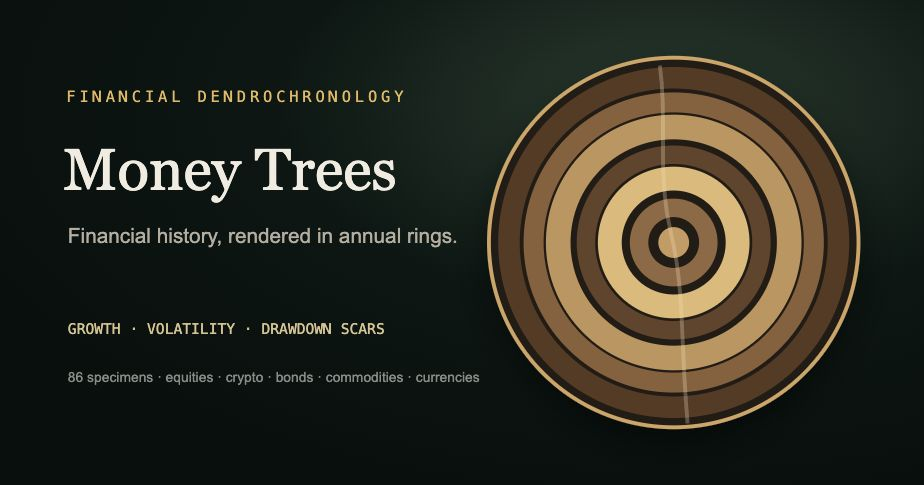
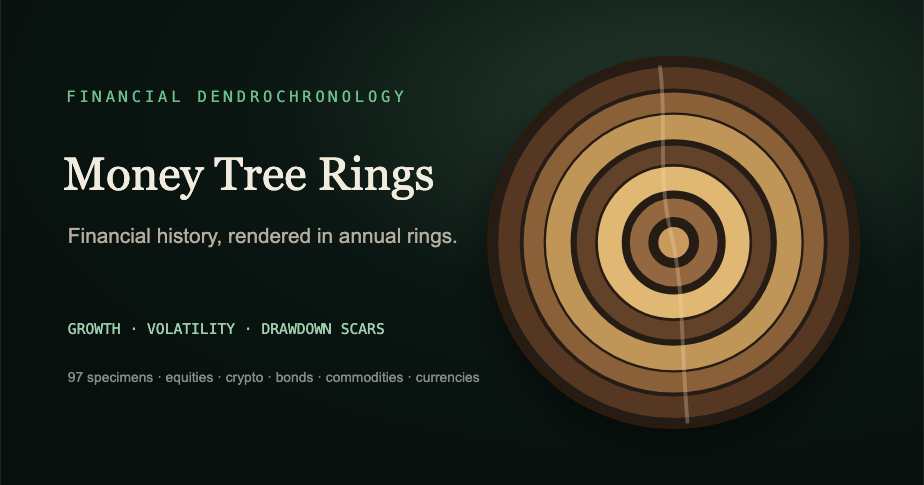
brand: Money Tree Rings at moneytreerings.com; four families
Domain and name. moneytrees.fun belongs to an unrelated crypto token
project; moneytreerings.com was registered 2026-09-18. The site, poster,
social card, manifest, methodology and README now say Money Tree Rings;
build.sh's SITE_URL default moves with it. The OG card is re-rendered
from its SVG (title resized to clear the disc, green accent, 97 specimens).
The repo, package and bot names stay.

Families. Young canopy and Mixed stand are gone from the taxonomy: young
was seven crypto trees plus COIN, all with an open scar, so they fall into
Scarred survivors on their own; Mixed stand held only META. Scarred now
qualifies at two wounds (was three) or an unrecovered scar, which gives
META a home and leaves no tree without a family. 'mixed' remains as an
internal fallback label with no button.

diff --git a/app/specimen.js b/app/specimen.js
@@ -13,7 +13,7 @@ function posterText(g,text,x,y,size,color='#eee9dd',font='ui-sans-serif,system-u
 function drawPoster(){const W=2400,H=3000,out=document.createElement('canvas');out.width=W;out.height=H;const g=out.getContext('2d'),m=LivingTrees.metrics(tree),family=TreeInsights.familyOf(insights,tree),p=LivingTrees.PALETTES[palette];
   const bg=g.createLinearGradient(0,0,0,H);bg.addColorStop(0,'#101a14');bg.addColorStop(.58,'#07100d');bg.addColorStop(1,'#13120c');g.fillStyle=bg;g.fillRect(0,0,W,H);
   const glow=g.createRadialGradient(W*.5,1080,80,W*.5,1080,1080);glow.addColorStop(0,'rgba(92,104,68,.22)');glow.addColorStop(1,'rgba(7,16,13,0)');g.fillStyle=glow;g.fillRect(0,300,W,1900);
-  posterText(g,'MONEY TREES',150,145,28,'#6fbf8a','ui-monospace,Menlo,monospace',600);posterText(g,`${tree.name} · ${tree.first_year}–${tree.last_year}`,150,260,86,'#f0e9da','Georgia,serif',500);posterText(g,`${tree.id.toUpperCase()} · ${LivingTrees.CLASS_NAMES[tree.cls]} · ${TreeInsights.FAMILY_LABELS[family]} · ${m.years} annual rings`,150,330,30,'#a9a294','ui-sans-serif,system-ui,sans-serif',400);
+  posterText(g,'MONEY TREE RINGS',150,145,28,'#6fbf8a','ui-monospace,Menlo,monospace',600);posterText(g,`${tree.name} · ${tree.first_year}–${tree.last_year}`,150,260,86,'#f0e9da','Georgia,serif',500);posterText(g,`${tree.id.toUpperCase()} · ${LivingTrees.CLASS_NAMES[tree.cls]} · ${TreeInsights.FAMILY_LABELS[family]} · ${m.years} annual rings`,150,330,30,'#a9a294','ui-sans-serif,system-ui,sans-serif',400);
   LivingTrees.drawDetailedRings(g,tree,W/2,1290,860,9999,{palette,years:yearLabels,fibers:true});
   g.fillStyle='rgba(20,27,22,.92)';g.fillRect(150,2225,2100,225);g.strokeStyle='rgba(228,218,190,.18)';g.lineWidth=2;g.strokeRect(150,2225,2100,225);
   const stats=[['ACCUMULATED GROWTH',grow(m)],['ANNUALIZED GROWTH',signed(m.cagr)],['MEAN VOLATILITY',pct(m.meanVol)],['WORST DRAWDOWN',pct(m.worst)]];stats.forEach((s,i)=>{const x=205+i*520;posterText(g,s[0],x,2295,21,'#8f897d','ui-monospace,Menlo,monospace',500);posterText(g,s[1],x,2390,54,i===0?'#6fbf8a':'#eee9dd','Georgia,serif',600)});
@@ -36,7 +36,7 @@ function stepYear(dir){const years=tree.rings.map(r=>r.year),current=selectedYea
 function paint(){if(!tree)return;cancelAnimationFrame(raf);raf=requestAnimationFrame(()=>{if(!tree)return;const available=Math.min(art.clientWidth,art.clientHeight||art.clientWidth),s=Math.max(240,Math.floor(available)),dpr=Math.min(devicePixelRatio||1,2);canvasSize=s;cv.style.width=s+'px';cv.style.height=s+'px';cv.width=Math.round(s*dpr);cv.height=Math.round(s*dpr);const g=cv.getContext('2d');g.setTransform(dpr,0,0,dpr,0,0);g.clearRect(0,0,s,s);geo=LivingTrees.drawDetailedRings(g,tree,s/2,s/2,s*.445,9999,{palette,years:yearLabels,fibers:true,highlightYear:activeYear()})})}
 function renderYearTable(){document.getElementById('year-table-wrap').innerHTML=`<table class="year-table"><thead><tr><th>year</th><th>return</th><th>vol</th><th>max DD</th></tr></thead><tbody>${tree.rings.slice().reverse().map(r=>`<tr data-year="${r.year}"><td><button type="button" class="year-button" data-year="${r.year}">${r.year}${r.partial?'*':''}</button></td><td>${r.ret>=0?'+':''}${pct(r.ret)}</td><td>${pct(r.vol)}</td><td>${pct(r.max_dd)}</td></tr>`).join('')}</tbody></table>`}
 function update(){const m=LivingTrees.metrics(tree,9999);if(!m)return;const family=TreeInsights.familyOf(insights,tree),from=encodeURIComponent(params.get('from')||'arboretum'),kinParams=arbParams();
-  document.title=tree.id.toUpperCase()+' Full Specimen — Money Trees';
+  document.title=tree.id.toUpperCase()+' Full Specimen — Money Tree Rings';
   document.getElementById('title').textContent=`${tree.name} carries ${m.years} visible annual rings`;
   document.getElementById('crumb-context').textContent=ctx.family!=='all'?` · ${TreeInsights.FAMILY_LABELS[ctx.family]}`:(ctx.cls!=='all'?` · ${LivingTrees.CLASS_NAMES[ctx.cls]}`:'');
   document.getElementById('name').textContent=tree.name;

diff --git a/app/tree-insights.js b/app/tree-insights.js
@@ -1,12 +1,12 @@
 (function(){
-  const FAMILY_ORDER=['quiet','storm','old','scarred','young','mixed'];
-  const FAMILY_LABELS={quiet:'Quiet compounders',storm:'Storm growers',old:'Old growth',scarred:'Scarred survivors',young:'Young canopy',mixed:'Mixed stand'};
-  const FAMILY_COPY={quiet:'Positive growers in the collection’s calmest volatility third.',storm:'Top-third growth paired with top-third volatility.',old:'Histories spanning at least twenty-five years.',scarred:'At least three qualifying wounds or an unrecovered scar.',young:'No more than seven visible annual bands.',mixed:'No single family trait dominates the visible record.'};
+  const FAMILY_ORDER=['quiet','storm','old','scarred'];
+  const FAMILY_LABELS={quiet:'Quiet compounders',storm:'Storm growers',old:'Old growth',scarred:'Scarred survivors',mixed:'Mixed stand'};
+  const FAMILY_COPY={quiet:'Positive growers in the collection’s calmest volatility third.',storm:'Top-third growth paired with top-third volatility.',old:'Histories spanning at least twenty-five years.',scarred:'At least two qualifying wounds or an unrecovered scar.',mixed:'No single family trait dominates the visible record.'};
   const quantile=(xs,q)=>{const a=xs.slice().sort((x,y)=>x-y),p=(a.length-1)*q,i=Math.floor(p),f=p-i;return a[i]+((a[i+1]??a[i])-a[i])*f};
   const metrics=t=>LivingTrees.metrics(t,9999);
   function features(t){const m=metrics(t);return{cagr:m.cagr,meanVol:m.meanVol,years:m.years,positive:m.positive,worst:Math.abs(m.worst),scarRate:m.scars.length/m.years}}
   function create(trees){const ctx={trees,volLo:quantile(trees.map(t=>t.mean_vol),.33),volHi:quantile(trees.map(t=>t.mean_vol),.67),growthHi:quantile(trees.map(t=>t.cagr),.67),z:{}};for(const key of Object.keys(features(trees[0]))){const xs=trees.map(t=>features(t)[key]),mean=xs.reduce((a,b)=>a+b,0)/xs.length,sd=Math.sqrt(xs.reduce((a,b)=>a+(b-mean)**2,0)/xs.length)||1;ctx.z[key]={mean,sd}}return ctx}
-  function familyOf(ctx,t){const m=metrics(t),open=(t.scars||[]).some(s=>s.r_year==null);if(m.meanVol<=ctx.volLo&&m.cagr>0)return'quiet';if(m.cagr>=ctx.growthHi&&m.meanVol>=ctx.volHi)return'storm';if(m.years<=7)return'young';if(t.age_years>=25)return'old';if(m.scars.length>=3||open)return'scarred';return'mixed'}
+  function familyOf(ctx,t){const m=metrics(t),open=(t.scars||[]).some(s=>s.r_year==null);if(m.meanVol<=ctx.volLo&&m.cagr>0)return'quiet';if(m.cagr>=ctx.growthHi&&m.meanVol>=ctx.volHi)return'storm';if(t.age_years>=25)return'old';if(m.scars.length>=2||open)return'scarred';return'mixed'}
   function notes(t){const m=metrics(t),best=m.rings.reduce((a,b)=>b.ret>a.ret?b:a),worst=m.rings.reduce((a,b)=>b.ret<a.ret?b:a),open=m.scars.filter(s=>s.r_year==null),pct=x=>`${x>=0?'+':''}${(x*100).toFixed(1)}%`;const out=[`${Math.round(m.positive*100)}% of its ${m.years} visible years were positive; ${best.year} was widest at ${pct(best.ret)}.`];if(open.length){const d=Math.min(...open.map(s=>s.depth));out.push(`Its deepest open wound is ${pct(d)} and still reaches the bark.`)}else if(m.scars.length){const last=m.scars[m.scars.length-1];out.push(`Its latest major wound bottomed in ${last.year}${last.r_year?` and closed in ${last.r_year}`:''}.`)}else out.push(`No drawdown cleared its ${(t.scar_thr*100).toFixed(0)}% scar threshold.`);out.push(`Its weakest annual band was ${worst.year} at ${pct(worst.ret)}.`);return out}
   function distance(ctx,a,b){const fa=features(a),fb=features(b),weights={cagr:1.25,meanVol:1,years:.8,positive:.8,worst:1,scarRate:.7};return Math.sqrt(Object.keys(weights).reduce((sum,key)=>sum+weights[key]*((fa[key]-fb[key])/ctx.z[key].sd)**2,0))}
   function relatives(ctx,t,n=5){return ctx.trees.filter(x=>x!==t).map(tree=>({tree,distance:distance(ctx,t,tree)})).sort((a,b)=>a.distance-b.distance).slice(0,n)}

diff --git a/methodology/index.html b/methodology/index.html
@@ -3,9 +3,9 @@
 <head>
   <meta charset="utf-8">
   <meta name="viewport" content="width=device-width,initial-scale=1">
-  <meta name="description" content="Methodology, data provenance, and limitations for Money Trees financial tree-ring visualizations.">
+  <meta name="description" content="Methodology, data provenance, and limitations for Money Tree Rings financial tree-ring visualizations.">
   <meta name="theme-color" content="#07100d">
-  <title>Methodology &amp; data notes — Money Trees</title>
+  <title>Methodology &amp; data notes — Money Tree Rings</title>
   <link rel="canonical" href="__SITE_URL__/methodology/">
   <link rel="icon" href="../assets/favicon.svg" type="image/svg+xml">
   <link rel="stylesheet" href="../shared/tokens.css?v=20260918-1">
@@ -14,9 +14,9 @@
 <body>
 <main class="method-page">
   <a class="method-back" href="../">← Arboretum</a>
-  <div class="eyebrow">Money Trees · methodology</div>
+  <div class="eyebrow">Money Tree Rings · methodology</div>
   <h1>How financial history becomes wood</h1>
-  <p class="method-lede">Money Trees is an interpretive visualization of historical market data. Every annual band is computed from observed daily closing prices; the organic treatment adds texture, not invented events.</p>
+  <p class="method-lede">Money Tree Rings is an interpretive visualization of historical market data. Every annual band is computed from observed daily closing prices; the organic treatment adds texture, not invented events.</p>
 
   <section><h2>Annual rings</h2><dl><dt>Width</dt><dd>Annual log growth, mapped monotonically with a minimum width so severe down years remain visible.</dd><dt>Color</dt><dd>Annual return direction and magnitude. Wood and market palettes use separate loss and gain ramps, normalized within asset class.</dd><dt>Darkness and grain</dt><dd>Annualized realized volatility, normalized within asset class. Higher volatility produces darker, more irregular wood.</dd><dt>One band</dt><dd>One calendar year. Partial first and current years use only the observations available and are marked during inspection.</dd></dl></section>
 
@@ -27,7 +27,7 @@
   <section><h2>Important limitations</h2><ul><li>Returns are based on the lake’s available closing-price series and may not represent dividend-reinvested total returns for every instrument.</li><li>Partial calendar years are not directly comparable with complete years.</li><li>The universe is curated and survivor-biased; absent or delisted assets cannot appear.</li><li>Class-relative normalization improves legibility within an asset class but is not an absolute comparison of volatility between classes.</li><li>Historical performance is not predictive. Money Trees is educational and is not investment advice.</li></ul></section>
 
   <section><h2>Open methodology</h2><p>The complete encoding contract is maintained with the source code. Visual encodings should change only when their corresponding data contract and documentation change together.</p></section>
-  <section><h2>Privacy</h2><p>Money Trees does not use accounts, advertising trackers, or application cookies, and it does not collect user-submitted personal information. The hosting provider may process routine request metadata for security and delivery.</p></section>
+  <section><h2>Privacy</h2><p>Money Tree Rings does not use accounts, advertising trackers, or application cookies, and it does not collect user-submitted personal information. The hosting provider may process routine request metadata for security and delivery.</p></section>
   <footer><a href="../">Return to the Arboretum</a><span>Financial history rendered as annual tree rings.</span></footer>
 </main>
 </body>

diff --git a/index.html b/index.html
@@ -5,15 +5,15 @@
   <meta name="viewport" content="width=device-width,initial-scale=1">
   <meta name="description" content="Explore financial histories as tree rings: one annual band per year, encoded by growth, volatility, and drawdown scars.">
   <meta name="theme-color" content="#07100d">
-  <meta property="og:type" content="website"><meta property="og:site_name" content="Money Trees">
-  <meta property="og:title" content="Money Trees — Financial history in annual rings">
-  <meta property="og:description" content="Explore 86 financial histories as tree rings, with annual growth, volatility, and drawdowns carved into the wood.">
+  <meta property="og:type" content="website"><meta property="og:site_name" content="Money Tree Rings">
+  <meta property="og:title" content="Money Tree Rings — Financial history in annual rings">
+  <meta property="og:description" content="Explore financial histories as tree rings, with annual growth, volatility, and drawdowns carved into the wood.">
   <meta property="og:url" content="__SITE_URL__/"><meta property="og:image" content="__SITE_URL__/assets/og-money-trees.png">
   <meta property="og:image:width" content="924"><meta property="og:image:height" content="485">
-  <meta name="twitter:card" content="summary_large_image"><meta name="twitter:title" content="Money Trees — Financial history in annual rings">
-  <meta name="twitter:description" content="Explore 86 financial histories as tree rings."><meta name="twitter:image" content="__SITE_URL__/assets/og-money-trees.png">
+  <meta name="twitter:card" content="summary_large_image"><meta name="twitter:title" content="Money Tree Rings — Financial history in annual rings">
+  <meta name="twitter:description" content="Explore financial histories as tree rings."><meta name="twitter:image" content="__SITE_URL__/assets/og-money-trees.png">
   <link rel="canonical" href="__SITE_URL__/"><link rel="icon" href="assets/favicon.svg" type="image/svg+xml"><link rel="manifest" href="site.webmanifest">
-  <title>Money Trees — Financial history in annual rings</title>
+  <title>Money Tree Rings — Financial history in annual rings</title>
   <link rel="stylesheet" href="shared/tokens.css?v=20260918-1">
   <link rel="stylesheet" href="app/arboretum.css?v=20260918-1">
 </head>
@@ -21,7 +21,7 @@
 <main class="page">
   <header>
     <div>
-      <div class="eyebrow">Money Trees</div>
+      <div class="eyebrow">Money Tree Rings</div>
       <h1 id="headline">A living collection of financial histories</h1>
       <p class="dek" id="dek"></p>
     </div>
@@ -43,8 +43,6 @@
       <button data-family="storm">Storm growers</button>
       <button data-family="old">Old growth</button>
       <button data-family="scarred">Scarred survivors</button>
-      <button data-family="young">Young canopy</button>
-      <button data-family="mixed">Mixed stand</button>
     </div>
     <div class="filter-row">
       <label>arrange <select id="sort"></select></label>

diff --git a/specimen/index.html b/specimen/index.html
@@ -4,12 +4,12 @@
   <meta charset="utf-8">
   <meta name="viewport" content="width=device-width,initial-scale=1">
   <meta name="description" content="Explore a financial asset’s complete annual tree-ring record, including growth, volatility, and drawdown scars.">
-  <meta name="theme-color" content="#07100d"><meta property="og:type" content="website"><meta property="og:site_name" content="Money Trees">
-  <meta property="og:title" content="Full Specimen — Money Trees"><meta property="og:description" content="A complete financial history rendered as annual tree rings.">
+  <meta name="theme-color" content="#07100d"><meta property="og:type" content="website"><meta property="og:site_name" content="Money Tree Rings">
+  <meta property="og:title" content="Full Specimen — Money Tree Rings"><meta property="og:description" content="A complete financial history rendered as annual tree rings.">
   <meta property="og:url" content="__SITE_URL__/specimen/"><meta property="og:image" content="__SITE_URL__/assets/og-money-trees.png">
   <meta name="twitter:card" content="summary_large_image"><meta name="twitter:image" content="__SITE_URL__/assets/og-money-trees.png">
   <link rel="canonical" href="__SITE_URL__/specimen/"><link rel="icon" href="../assets/favicon.svg" type="image/svg+xml">
-  <title>Full Specimen — Money Trees</title>
+  <title>Full Specimen — Money Tree Rings</title>
   <link rel="stylesheet" href="../shared/tokens.css?v=20260918-1">
   <link rel="stylesheet" href="../app/specimen.css?v=20260918-1">
 </head>

diff --git a/404.html b/404.html
@@ -3,7 +3,7 @@
 <head>
   <meta charset="utf-8">
   <meta name="viewport" content="width=device-width,initial-scale=1">
-  <title>Not found — Money Trees</title>
+  <title>Not found — Money Tree Rings</title>
   <style>
     :root{color-scheme:dark}
     body{margin:0;min-height:100vh;display:grid;place-items:center;text-align:center;
@@ -18,7 +18,7 @@
 </head>
 <body>
   <div>
-    <div class="eyebrow">Money Trees</div>
+    <div class="eyebrow">Money Tree Rings</div>
     <h1>No specimen here</h1>
     <p>That path isn't part of the arboretum. Head back to the living collection of financial histories.</p>
     <a href="/">← To the Arboretum</a>

diff --git a/README.md b/README.md
@@ -1,6 +1,6 @@
-# Money Trees
+# Money Tree Rings
 
-Money Trees turns an asset's price history into a tree cross-section: one band per calendar year, with growth, volatility, and major drawdowns encoded into the wood. The curated Arboretum currently contains 97 specimens; selecting one opens its complete record at `/specimen/?id=TICKER`, where it can be inspected by mouse, touch, or keyboard and exported as a high-resolution poster PNG.
+Money Tree Rings (moneytreerings.com) turns an asset's price history into a tree cross-section: one band per calendar year, with growth, volatility, and major drawdowns encoded into the wood. The curated Arboretum currently contains 97 specimens; selecting one opens its complete record at `/specimen/?id=TICKER`, where it can be inspected by mouse, touch, or keyboard and exported as a high-resolution poster PNG.
 
 The hard gate is that every visual feature must decode to a real quantity computed from real data. Ring width is annual log growth, color is annual return, darkness is realized volatility, and scars are qualifying drawdown episodes. Natural wood is the default return encoding; an optional market mode provides the familiar red/green analytical view. See [`docs/ENCODING.md`](docs/ENCODING.md) for the complete contract and caveats.
 
@@ -36,7 +36,7 @@ Open <http://localhost:8081> for the app or <http://localhost:8081/labs/> for th
 
 ## Build and deployment
 
-Cloudflare Pages runs `./build.sh` and publishes `dist/`. The build copies the production app and canonical data while excluding the development-only lab archive and stripping lab links from public pages. `dist/` is generated and ignored by Git. The canonical origin defaults to `https://moneytrees.fun`; preview deployments can override it with the Pages build variable `SITE_URL`.
+Cloudflare Pages runs `./build.sh` and publishes `dist/`. The build copies the production app and canonical data while excluding the development-only lab archive and stripping lab links from public pages. `dist/` is generated and ignored by Git. The canonical origin defaults to `https://moneytreerings.com`; preview deployments can override it with the Pages build variable `SITE_URL`.
 
 The GitHub Actions workflow at `.github/workflows/refresh-rings.yml` runs daily and on demand. It synchronizes the price lake from R2, re-bakes and validates `data/rings.json`, and commits the deterministic artifact only when source data changes; that push triggers the public deployment. The workflow requires the documented R2 repository secrets. A separate validation workflow checks every push and pull request.
 

diff --git a/docs/PUBLICATION.md b/docs/PUBLICATION.md
@@ -5,10 +5,10 @@
 - [x] Equity/ETF/bond/commodity/FX history now comes from Twelve Data via the upstream public namespace (`prices_public/`), whose free tier permits public display of derived data. Tiingo no longer feeds the published artifact. Keep the "Data provided by Twelve Data" attribution (dofollow link) on the methodology page and near the data on the main site, and keep published returns quantized to a whole percent (`RET_QUANT` in the bake) so the artifact cannot be inverted to vendor closes.
 - [ ] Confirm the CoinGecko account/license covers public display of derived crypto metrics and retain the required attribution on the methodology page and site footer.
 - [ ] Audit any additional upstream providers represented in the featured universe and record their public-display requirements in the Empty Data source catalog.
-- [ ] Add `moneytrees.fun` to Cloudflare and attach it to the Money Trees Pages project as the production custom domain.
-- [ ] Redirect `www.moneytrees.fun` to `https://moneytrees.fun` (or deliberately choose the inverse) so there is one canonical host.
-- [ ] Confirm Cloudflare has issued the edge TLS certificate and `https://moneytrees.fun` resolves before announcing it.
-- [ ] Keep the production `SITE_URL` at its default `https://moneytrees.fun`; override it only for an intentionally separate preview environment.
+- [ ] Add `moneytreerings.com` (registered at Hover, 2026-09-18) to Cloudflare and attach it to the Pages project as the production custom domain. `moneytrees.fun` belongs to an unrelated crypto token project — never point anything at it.
+- [ ] Redirect `www.moneytreerings.com` to `https://moneytreerings.com` (or deliberately choose the inverse) so there is one canonical host.
+- [ ] Confirm Cloudflare has issued the edge TLS certificate and `https://moneytreerings.com` resolves before announcing it.
+- [ ] Keep the production `SITE_URL` at its default `https://moneytreerings.com`; override it only for an intentionally separate preview environment.
 - [ ] Confirm the R2 lake sync is current, then run the `Refresh tree rings` workflow once manually.
 - [ ] Run `./scripts/check.sh` and confirm the `Validate production` workflow passes, including browser smoke tests.
 - [ ] Test the production homepage, one long-history equity, one crypto specimen, touch inspection, keyboard inspection, poster download, 404 page, and methodology page.

diff --git a/docs/ENCODING.md b/docs/ENCODING.md
@@ -1,4 +1,4 @@
-# Money Trees encoding contract
+# Money Tree Rings encoding contract
 
 The cross-section is a compact financial record, not decorative generative art. Every true annual band corresponds to one calendar-year record in `data/rings.json`.
 
